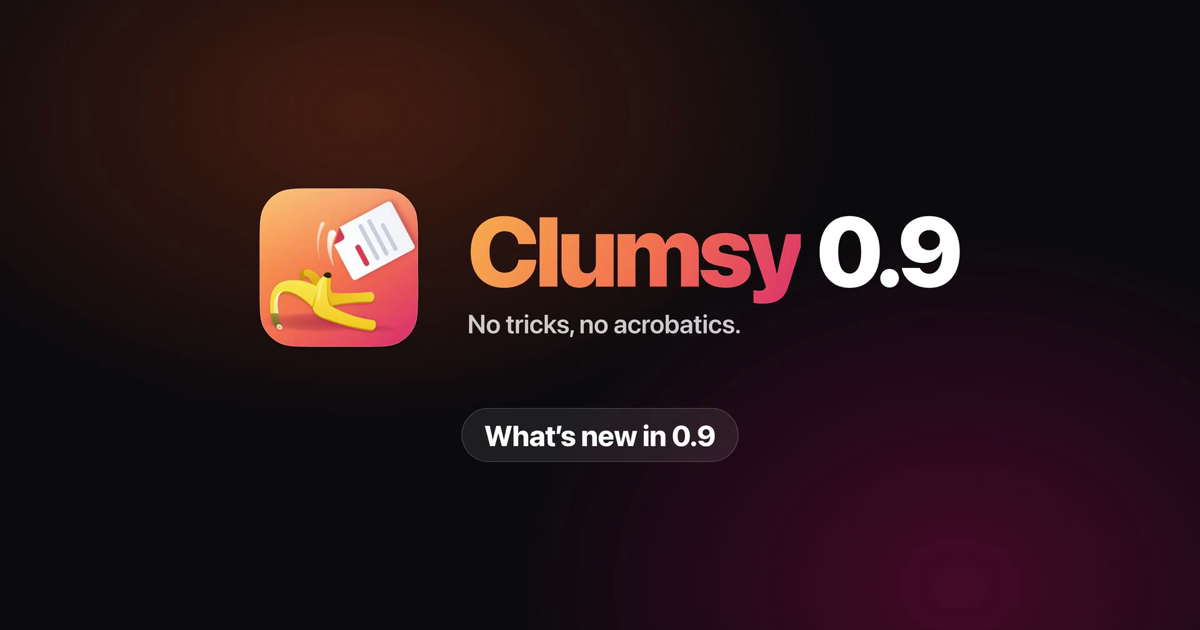
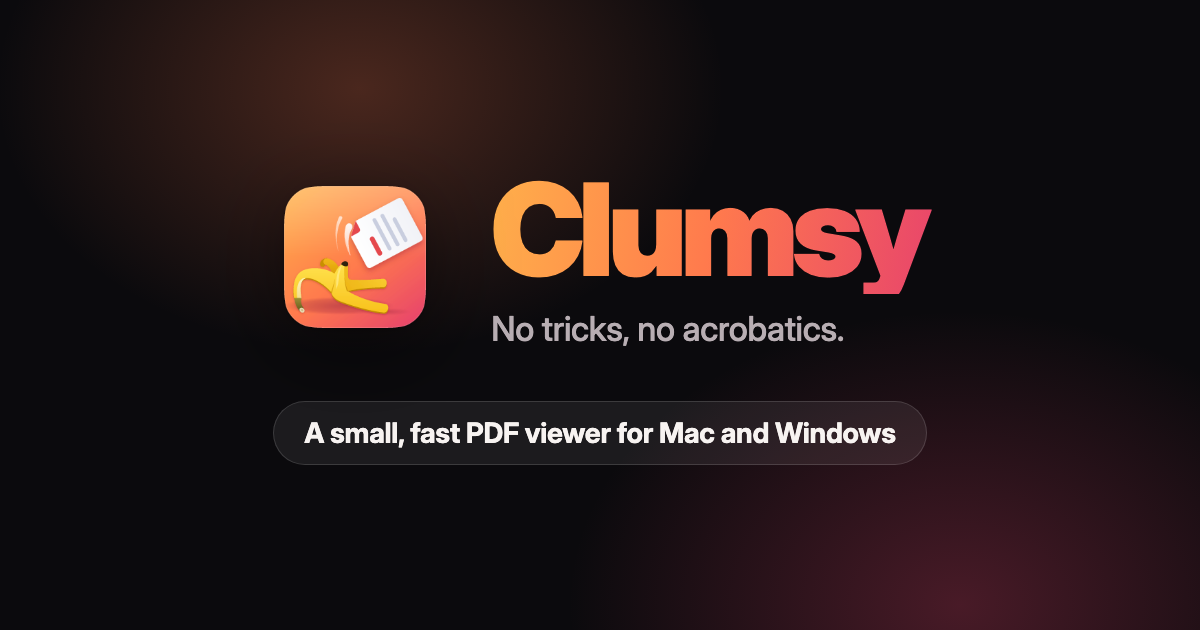
Replace the 0.9 share image with one that has no version

Changed region(s): [[0.2158, 0.2714, 0.8017, 0.573], [0.2467, 0.6333, 0.7708, 0.754]]

diff --git a/web/app/lib/meta.ts b/web/app/lib/meta.ts
@@ -2,7 +2,7 @@ const DESCRIPTION =
   "Clumsy is a small, fast PDF viewer for Mac and Windows. Tabs, search, highlights, comments, forms, digital signatures, page edits, and document comparison, saved straight back into the file. Markdown too.";
 
 export function pageMeta(title: string, description = DESCRIPTION) {
-  const image = `${__SITE_URL__}/og-image.png`;
+  const image = `${__SITE_URL__}/og-image.png?v=2`;
   return [
     { title },
     { name: "description", content: description },
